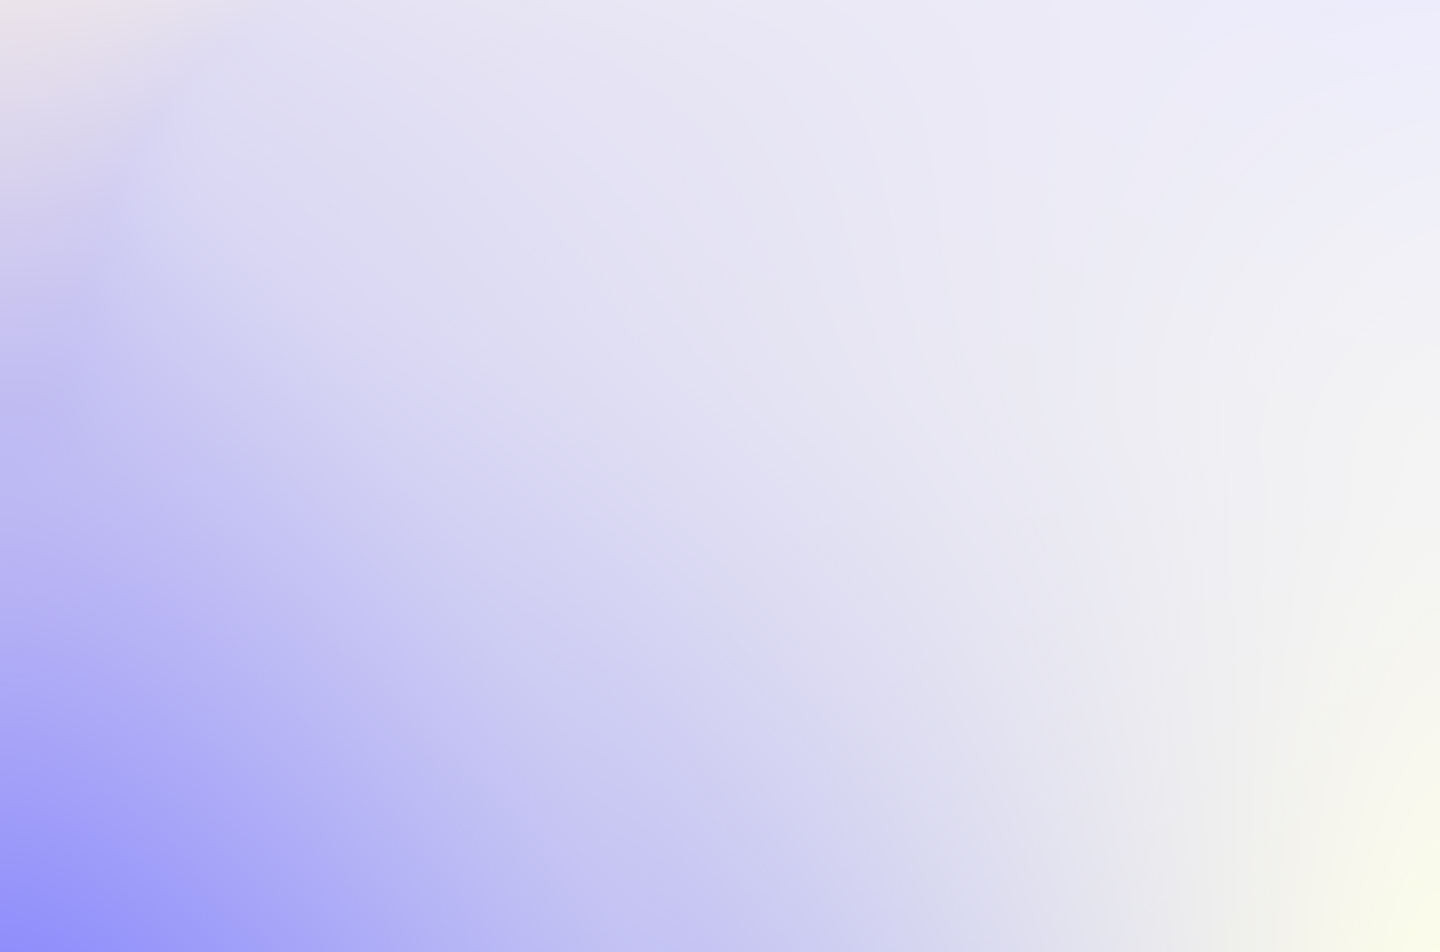
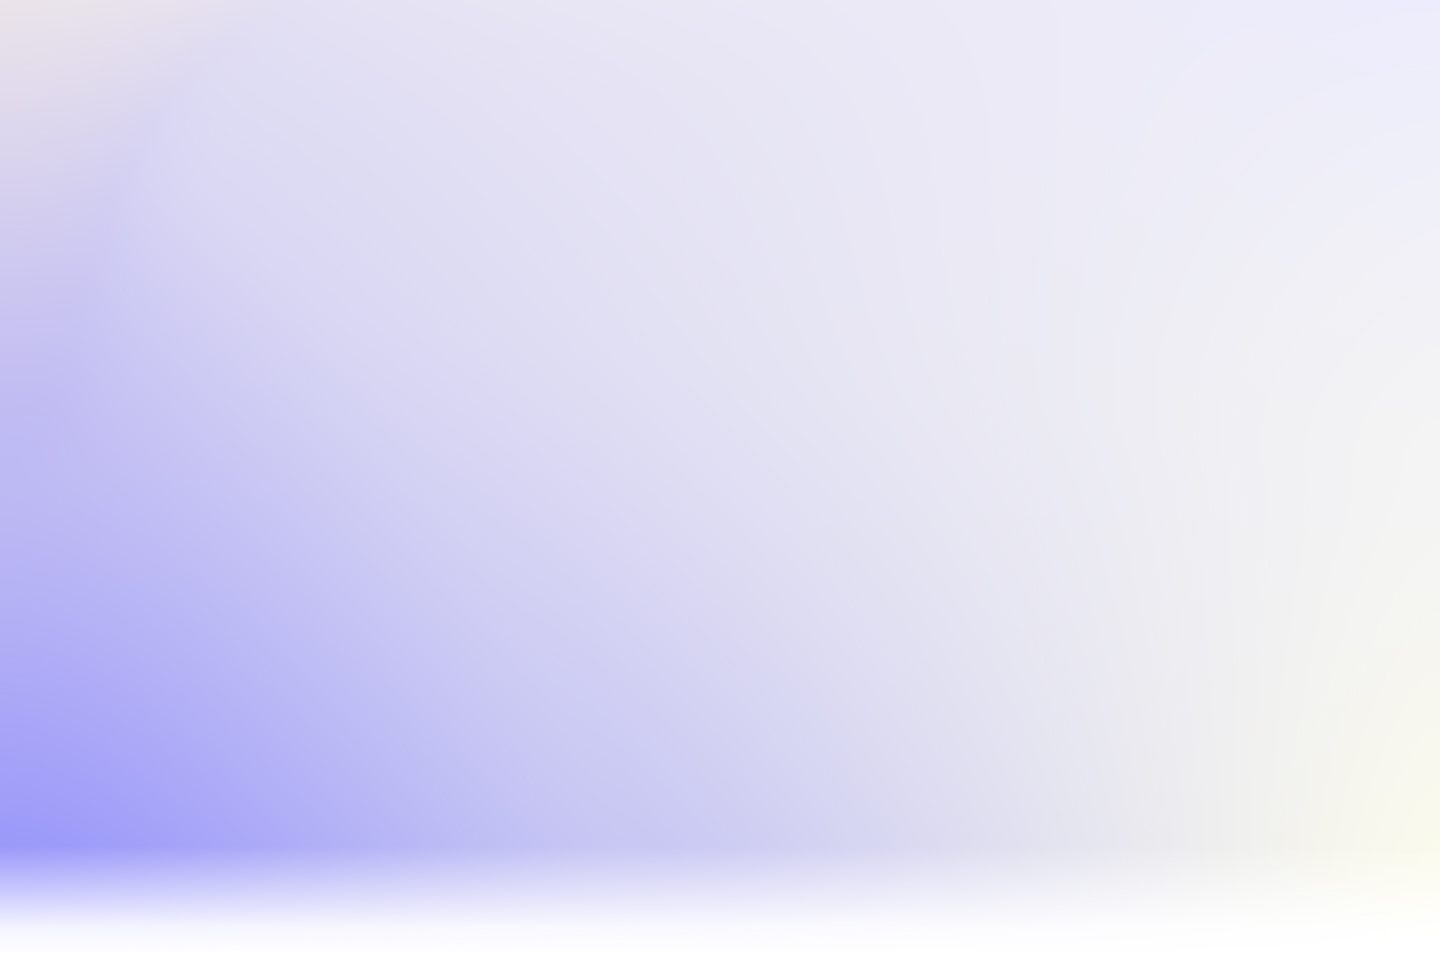
addind hero seciton to main page

Changed region(s): [[0.0, 0.8834, 0.7812, 1.0]]

diff --git a/src/components/Navbar.js b/src/components/Navbar.js
@@ -29,10 +29,10 @@ setIsSearchBarVisible(false);
 };
 
 return (
-    <nav className="w-[100%] mx-auto px-6 xl:container max-xl:px-1 flex items-center justify-between py-2 max-lg:py-4 relative select-none">
+    <nav className="w-[100%] mx-auto px-6 xl:container max-xl:px-1 flex items-center justify-between py-2 relative select-none">
         <Link href='/' className="w-max nav-logo flex items-center mr-4 gap-2">
             {/* <Image width={1} height={1} className="w-[48px] h-[48px] max-xl:w-[42px] max-xl:h-[42px]" src='/images/stockverse_logo.svg' alt='Stockverse_logo'/> */}
-            <svg width="170" height="38.53" viewBox="0 0 180 41" fill="none" xmlns="http://www.w3.org/2000/svg">
+            <svg className="max-sm:w-[45vw]" width="170" height="38.53" viewBox="0 0 180 41" fill="none" xmlns="http://www.w3.org/2000/svg">
             <path d="M56.4 29.7053C55.0546 29.7053 53.7703 29.4994 52.5436 29.0876C51.3168 28.6758 50.3501 28.1418 49.6451 27.4874L50.5787 25.5208C51.2505 26.1089 52.1073 26.5957 53.1508 26.9831C54.1926 27.3705 55.2763 27.5625 56.4035 27.5625C57.4278 27.5625 58.2602 27.4456 58.8989 27.21C59.5375 26.9744 60.0087 26.6516 60.3106 26.2398C60.6125 25.8279 60.7643 25.362 60.7643 24.8403C60.7643 24.2348 60.5671 23.7479 60.1727 23.378C59.7783 23.008 59.2653 22.7096 58.6354 22.4828C58.0054 22.2559 57.3127 22.0588 56.5553 21.8912C55.7997 21.7237 55.0389 21.5265 54.2746 21.2997C53.5103 21.0728 52.8123 20.7832 52.1824 20.4307C51.5524 20.0782 51.0429 19.6035 50.6572 19.0068C50.2698 18.41 50.0779 17.6422 50.0779 16.6999C50.0779 15.7576 50.317 14.9566 50.7968 14.1923C51.275 13.428 52.0148 12.8138 53.0147 12.3513C54.0146 11.8889 55.2867 11.6586 56.8345 11.6586C57.8588 11.6586 58.8762 11.7929 59.8848 12.0617C60.8934 12.3304 61.7676 12.7178 62.5058 13.2221L61.6734 15.2393C60.9178 14.735 60.1186 14.3703 59.2793 14.1434C58.4382 13.9166 57.6233 13.8032 56.8345 13.8032C55.8434 13.8032 55.0285 13.9288 54.3898 14.1818C53.7511 14.4331 53.2852 14.7699 52.9903 15.1904C52.6954 15.611 52.5488 16.0821 52.5488 16.6021C52.5488 17.2234 52.746 17.7207 53.1404 18.0889C53.5347 18.4588 54.0478 18.7537 54.6777 18.9719C55.3077 19.19 56.0004 19.3872 56.7578 19.5634C57.5133 19.7397 58.2742 19.9368 59.0385 20.155C59.8028 20.3731 60.5008 20.6593 61.1307 21.0118C61.7607 21.3642 62.2685 21.8354 62.6558 22.4235C63.0415 23.0115 63.2352 23.7689 63.2352 24.692C63.2352 25.6151 62.9909 26.4108 62.504 27.1751C62.0172 27.9394 61.2651 28.5536 60.2477 29.0161C59.2304 29.4785 57.9496 29.7088 56.4035 29.7088L56.4 29.7053Z" fill="var(--svg-color)"/>
             <path d="M72.3075 26.9846C71.8032 27.4034 71.1733 27.6146 70.4159 27.6146C69.7441 27.6146 69.2276 27.4209 68.8664 27.0352C68.5052 26.6479 68.3237 26.0929 68.3237 25.3705V13.2201H65.9034V25.4717C65.9034 26.8154 66.2733 27.8502 67.0132 28.5726C67.7531 29.295 68.7948 29.6562 70.1385 29.6562C70.6934 29.6562 71.2274 29.5812 71.7404 29.4294C72.2534 29.2776 72.6932 29.0437 73.0631 28.7227L72.3075 26.9846ZM69.7581 16.1447L68.3237 18.1358H72.1557V16.1447H69.7581ZM63.6349 16.1447V18.1358H68.3237V16.1447H63.6349Z" fill="var(--svg-color)"/>
             <path d="M80.2489 29.6564C78.9035 29.6564 77.7117 29.3632 76.6699 28.7734C75.6282 28.1853 74.8045 27.3739 74.199 26.3409C73.5935 25.3078 73.2916 24.1352 73.2916 22.8247C73.2916 21.5142 73.5935 20.3206 74.199 19.2946C74.8045 18.2702 75.6282 17.4675 76.6699 16.8865C77.7117 16.3071 78.9053 16.0175 80.2489 16.0175C81.5926 16.0175 82.7652 16.3071 83.8157 16.8865C84.8662 17.4658 85.6898 18.265 86.2866 19.2806C86.8834 20.2979 87.1818 21.4776 87.1818 22.8229C87.1818 24.1683 86.8834 25.327 86.2866 26.3531C85.6898 27.3791 84.8662 28.1853 83.8157 28.7734C82.7652 29.3615 81.5769 29.6564 80.2489 29.6564ZM80.2489 27.5379C81.1057 27.5379 81.8753 27.3442 82.5558 26.9586C83.2364 26.5729 83.7703 26.0215 84.156 25.3078C84.5416 24.5941 84.7353 23.7652 84.7353 22.8247C84.7353 21.8841 84.5416 21.0396 84.156 20.3416C83.7686 19.6436 83.2364 19.1026 82.5558 18.7152C81.8753 18.3296 81.1057 18.1359 80.2489 18.1359C79.3921 18.1359 78.6261 18.3296 77.9543 18.7152C77.2824 19.1026 76.745 19.6436 76.3401 20.3416C75.937 21.0396 75.7346 21.8667 75.7346 22.8247C75.7346 23.7827 75.937 24.5941 76.3401 25.3078C76.7432 26.0215 77.2807 26.5729 77.9543 26.9586C78.6261 27.346 79.3904 27.5379 80.2489 27.5379Z" fill="var(--svg-color)"/>
@@ -52,13 +52,13 @@ return (
         </Link>
         <SearchBar isVisible={isSearchBarVisible} onClose={closeSearchBar}/>
         <div className="lg:ml-4 z-20 w-[60%] max-lg:w-[100%] max-lg:items-end max-lg:shadow-xl max-lg:px-2 max-lg:py-2 max-lg:bg-mobNavBg max-lg:justify-between flex items-center gap-1.5 max-xl:gap-0.5 max-lg:fixed max-lg:bottom-0 max-lg:left-0 max-lg:right-0">
-            <Link href='/' className="z-50 flex flex-col max-lg:gap-1.5 items-center max-lg:p-0 lg:hidden px-4 py-2 text-base max-xl:text-sm text-primaryText rounded-full">
+            <Link href='/' className="z-50 max-sm:text-[3.6vw] flex flex-col font-medium max-lg:gap-1.5 items-center max-lg:p-0 lg:hidden px-4 py-2 text-base max-xl:text-sm text-primaryText rounded-full">
                 <svg width="24" height="24" viewBox="0 0 24 24" fill="none" xmlns="http://www.w3.org/2000/svg">
                 <path d="M9.15722 20.7714V17.7047C9.1572 16.9246 9.79312 16.2908 10.581 16.2856H13.4671C14.2587 16.2856 14.9005 16.9209 14.9005 17.7047V17.7047V20.7809C14.9003 21.4432 15.4343 21.9845 16.103 22H18.0271C19.9451 22 21.5 20.4607 21.5 18.5618V18.5618V9.83784C21.4898 9.09083 21.1355 8.38935 20.538 7.93303L13.9577 2.6853C12.8049 1.77157 11.1662 1.77157 10.0134 2.6853L3.46203 7.94256C2.86226 8.39702 2.50739 9.09967 2.5 9.84736V18.5618C2.5 20.4607 4.05488 22 5.97291 22H7.89696C8.58235 22 9.13797 21.4499 9.13797 20.7714V20.7714" stroke="rgba(var(--mob-nav-link))" strokeWidth="2" strokeLinecap="round" strokeLinejoin="round"/>
                 </svg>
                 <span className={`rounded-full max-lg:text-mobNavLink max-lg:py-.2 max-lg:px-2 ${isActive('/') ? 'max-lg:bg-mobNavLink max-lg:!text-mobNavBg' : ''}`}>Home</span>
             </Link>
-            <Link href=''  onClick={toggleSearchBar} className="z-50 hidden max-lg:flex flex-col max-lg:gap-1.5 items-center max-lg:px-0 text-base max-xl:text-sm text-primaryText rounded-full group">
+            <Link href=''  onClick={toggleSearchBar} className="z-50 max-sm:text-[3.6vw] font-medium hidden max-lg:flex flex-col max-lg:gap-1.5 items-center max-lg:px-0 text-base max-xl:text-sm text-primaryText rounded-full group">
                 <svg
                     width="24"
                     height="24"
@@ -85,7 +85,7 @@ return (
                     Search
                 </span>
             </Link>
-            <Link href='/stockverse-gpt' className="z-50 flex flex-col items-center max-lg:gap-1.5 max-lg:p-0 px-4 py-2 text-base max-xl:text-sm text-primaryText lg:hover:bg-primaryText/10 rounded-full">
+            <Link href='/stockverse-gpt' className="z-50 flex flex-col max-sm:text-[3.6vw] font-medium items-center max-lg:gap-1.5 max-lg:p-0 px-4 py-2 text-base max-xl:text-sm text-primaryText lg:hover:bg-primaryText/10 rounded-full">
                 <svg className="absolute -top-7 hidden max-lg:flex" width="64" height="64" viewBox="0 0 48 48" fill="none" xmlns="http://www.w3.org/2000/svg">
                 <g clipPath="url(#clip0_374_40)">
                 <path d="M48 24C48 10.7452 37.2548 0 24 0C10.7452 0 0 10.7452 0 24C0 37.2548 10.7452 48 24 48C37.2548 48 48 37.2548 48 24Z" fill="rgba(var(--mob-nav-bg))" fillOpacity="1"/>
@@ -122,7 +122,7 @@ return (
                 </svg>
                 <span className={`rounded-full max-lg:text-mobNavLink max-lg:py-.2 max-lg:px-2 ${isActive('/stockverse-gpt') ? 'max-lg:bg-mobNavLink max-lg:!text-mobNavBg' : ''}`}>Stocks GPT</span>
             </Link>
-            <Link href='/ai-news' className="z-50 flex flex-col max-lg:gap-1.5 items-center max-lg:p-0 px-4 py-2 text-base max-xl:text-sm text-primaryText lg:hover:bg-primaryText/10 rounded-full">
+            <Link href='/ai-news' className="z-50 flex flex-col max-sm:text-[3.6vw] font-medium max-lg:gap-1.5 items-center max-lg:p-0 px-4 py-2 text-base max-xl:text-sm text-primaryText lg:hover:bg-primaryText/10 rounded-full">
                 <svg className="hidden max-lg:flex" width="24" height="24" viewBox="0 0 24 24" fill="none" xmlns="http://www.w3.org/2000/svg">
                 <path fillRule="evenodd" clipRule="evenodd" d="M7 9C7 8.44772 7.44772 8 8 8H16C16.5523 8 17 8.44772 17 9C17 9.55228 16.5523 10 16 10H8C7.44772 10 7 9.55228 7 9Z" fill="rgba(var(--mob-nav-link))"/>
                 <path fillRule="evenodd" clipRule="evenodd" d="M7 13C7 12.4477 7.44772 12 8 12H12C12.5523 12 13 12.4477 13 13C13 13.5523 12.5523 14 12 14H8C7.44772 14 7 13.5523 7 13Z" fill="rgba(var(--mob-nav-link))"/>
@@ -130,7 +130,7 @@ return (
                 </svg>
                 <span className={`rounded-full max-lg:text-mobNavLink max-lg:py-.2 max-lg:px-2 ${isActive('/ai-news') ? 'max-lg:bg-mobNavLink max-lg:!text-mobNavBg' : ''}`}>News</span>
             </Link>
-            <div className="cursor-pointer lg:relative group max-lg:gap-1.5 flex max-lg:p-0 max-lg:flex-col max-lg:items-center items-end px-4 py-2 text-base max-xl:text-sm text-primaryText lg:hover:bg-primaryText/10 rounded-full group" onClick={toggleDropdown} id="menu-button" aria-expanded="true" aria-haspopup="true">
+            <div className="cursor-pointer lg:relative group max-sm:text-[3.6vw] font-medium max-lg:gap-1.5 flex max-lg:p-0 max-lg:flex-col max-lg:items-center items-end px-4 py-2 text-base max-xl:text-sm text-primaryText lg:hover:bg-primaryText/10 rounded-full group" onClick={toggleDropdown} id="menu-button" aria-expanded="true" aria-haspopup="true">
                 <svg className="z-50 hidden max-lg:flex" width="24" height="24" viewBox="0 0 24 24" fill="none" xmlns="http://www.w3.org/2000/svg">
                 <path d="M12 22C17.5228 22 22 17.5228 22 12C22 6.47715 17.5228 2 12 2C6.47715 2 2 6.47715 2 12C2 17.5228 6.47715 22 12 22Z" stroke="rgba(var(--mob-nav-link))" strokeWidth="1.5" strokeLinecap="round" strokeLinejoin="round"/>
                 <path d="M2 12H22" stroke="rgba(var(--mob-nav-link))" strokeWidth="1.5" strokeLinecap="round" strokeLinejoin="round"/>
@@ -142,20 +142,20 @@ return (
                 </svg>
                 <div className={`absolute p-2 max-lg:shadow-none max-lg:w-full max-lg:pb-8 max-lg:left-[0%] max-lg:bg-mobNavBg max-lg:rounded-2xl max-lg:z-10 max-lg:-top-[280%] overflow-hidden top-[80%] left-0 mt-2 w-48 bg-background rounded-md shadow-xl transition-opacity duration-0 ${isDropdownVisible ? 'opacity-100 visible' : 'opacity-0 invisible'}`}>
                     <Link href="/gainers&losers">
-                        <span className="w-full h-full max-lg:text-mobNavLink rounded text-base block px-4 py-2 text-primaryText hover:bg-primaryText/10">Gainers / Losers</span>
+                        <span className="w-full h-full font-medium max-lg:text-mobNavLink rounded text-base block px-4 py-2 text-primaryText hover:bg-primaryText/10">Gainers / Losers</span>
                     </Link>
                     <Link href="/level2">
-                        <span className="block px-4 py-2 max-lg:text-mobNavLink rounded text-base text-primaryText hover:bg-primaryText/10">Level 2</span>
+                        <span className="block px-4 py-2 font-medium max-lg:text-mobNavLink rounded text-base text-primaryText hover:bg-primaryText/10">Level 2</span>
                     </Link>
                     <Link href="/ipo">
-                        <span className="block px-4 py-2 max-lg:text-mobNavLink rounded text-base text-primaryText hover:bg-primaryText/10">IPO Calender</span>
+                        <span className="block px-4 py-2 font-medium max-lg:text-mobNavLink rounded text-base text-primaryText hover:bg-primaryText/10">IPO Calender</span>
                     </Link>
                     <Link href="/stockpicks" className="hidden max-lg:flex">
-                        <span className="block w-full px-4 py-2 max-lg:text-mobNavLink rounded text-base text-primaryText hover:bg-primaryText/10">Stock Picks</span>
+                        <span className="block w-full font-medium px-4 py-2 max-lg:text-mobNavLink rounded text-base text-primaryText hover:bg-primaryText/10">Stock Picks</span>
                     </Link>
                 </div>
             </div>
-            <Link href='/stockpicks' className="max-lg:hidden flex flex-col items-center max-lg:p-0 px-4 py-2 text-base max-xl:text-sm text-primaryText hover:bg-primaryText/10 rounded-full">
+            <Link href='/stockpicks' className="max-lg:hidden flex flex-col items-center max-lg:p-0 px-4 py-2 text-base font-medium max-xl:text-sm text-primaryText hover:bg-primaryText/10 rounded-full">
                 <svg className="hidden max-lg:flex" width="24" height="24" viewBox="0 0 24 24" fill="none" xmlns="http://www.w3.org/2000/svg">
                 <path d="M19.97 10H3.97V18C3.97 21 4.97 22 7.97 22H15.97C18.97 22 19.97 21 19.97 18V10Z" stroke="var(--svg-color)" strokeWidth="1.5" strokeMiterlimit="10" strokeLinecap="round" strokeLinejoin="round"/>
                 <path d="M21.5 7V8C21.5 9.1 20.97 10 19.5 10H4.5C2.97 10 2.5 9.1 2.5 8V7C2.5 5.9 2.97 5 4.5 5H19.5C20.97 5 21.5 5.9 21.5 7Z" stroke="white" strokeWidth="1.5" strokeMiterlimit="10" strokeLinecap="round" strokeLinejoin="round"/>
@@ -167,10 +167,10 @@ return (
             </Link>
         </div>
         <div className="w-max flex items-center gap-2 max-lg:gap-1">
-            <Link href="/login" className="px-4 py-2 text-base max-xl:text-sm text-primaryButton hover:bg-primaryText/10 rounded-full">
+            <Link href="/login" className="px-4 py-2 max-sm:px-[4vw] max-sm:text-[3.5vw] text-base max-xl:text-sm text-primaryButton hover:bg-primaryText/10 rounded-full">
                 <span>Login</span>
             </Link> 
-            <Link href="/register" className="px-6 py-2 text-base max-xl:text-sm text-primaryButtonText bg-primaryButtonBg hover:bg-primaryButtonBg/90 rounded-full">
+            <Link href="/register" className="px-6 py-2 max-sm:px-[6vw] max-sm:text-[3.5vw] text-base max-xl:text-sm text-primaryButtonText bg-primaryButtonBg hover:bg-primaryButtonBg/90 rounded-full">
                 <span>Register</span>
             </Link>
             <ThemeSwitch/>

diff --git a/src/components/SearchBar.js b/src/components/SearchBar.js
@@ -102,7 +102,7 @@ router.push(`/stocks/${symbol}`);
 };
 
 return (
-<div className={`relative w-[25%] transform z-10 max-lg:h-[100%] max-lg:w-full max-lg:bg-mobNavBg max-lg:pt-4 max-lg:fixed max-lg:top-0 max-lg:left-0 transition duration-300 ease-in-out ${
+<div className={`relative w-[30%] transform z-10 max-lg:h-[100%] max-lg:w-full max-lg:bg-mobNavBg max-lg:pt-4 max-lg:fixed max-lg:top-0 max-lg:left-0 transition duration-300 ease-in-out ${
     isVisible ? 'max-lg:translate-y-0' : 'max-lg:translate-y-full'
 }`}>
     <div ref={searchBarRef} className="relative w-[100%] max-lg:flex max-lg:flex-col max-lg:items-center">
@@ -142,14 +142,14 @@ return (
                 <path
                     d="M11 19C15.4183 19 19 15.4183 19 11C19 6.58172 15.4183 3 11 3C6.58172 3 3 6.58172 3 11C3 15.4183 6.58172 19 11 19Z"
                     stroke="var(--svg-color)" // Use strokeColor state here
-                    strokeWidth="2"
+                    strokeWidth="2.3"
                     strokeLinecap="round"
                     strokeLinejoin="round"
                 />
                 <path
                     d="M20.9999 20.9999L16.6499 16.6499"
                     stroke="var(--svg-color)" // Use strokeColor state here
-                    strokeWidth="2"
+                    strokeWidth="2.3"
                     strokeLinecap="round"
                     strokeLinejoin="round"
                 />

diff --git a/src/app/page.js b/src/app/page.js
@@ -1,10 +1,10 @@
 
-
 export default function Home() {
   return (
-    <div className="py-8 w-full bg-heroBg bg-no-repeat bg-cover bg-left-bottom">
-      <div className="px-6 mx-auto xl:container flex flex-col items-center">
-        <h1 className="text-xl">Invest The Smart Way - Caiman Invest</h1>
+    <div className="hero pt-16 w-full bg-heroBg bg-no-repeat bg-cover bg-left-bottom">
+      <div className="content px-6 max-sm:px-3 mx-auto xl:container gap-y-4 max-sm:gap-y-3 flex flex-col items-center">
+        <h1 className="w-[70%] max-sm:w-[100%] text-[75px] max-xl:text-[5.5vw] max-sm:text-[7.5vw] leading-[120%] font-bold text-primaryHeading text-center">Your Gateway to Smarter Decision<span className="text-secondaryHeading">  - Stockverse</span></h1>
+        <p className="text-2xl w-[50%] max-xl:w-[70%] max-sm:w-[90%] leading-[120%] max-xl:text-[2vw] max-sm:text-[4vw] text-center">Discover real-time stock data, personalized insights, and AI-driven recommendations tailored to your trading style.</p>
       </div>
     </div>
   );

diff --git a/src/app/globals.css b/src/app/globals.css
@@ -16,12 +16,14 @@
   --mob-nav-bg: 29, 41, 57;
   --mob-nav-link: 255, 255, 255;
   --primary-color: 255, 255, 255;
-  --secondary-color: 1, 30, 247, 1;
+  --secondary-color: 29, 41, 57;
   --background: 255, 255, 255;
   --primary-text: 0, 0, 0;
   --primary-text-hover: 255, 255, 255;
   --primary-button-text: 255, 255, 255;
   --primary-button-bg: 29, 41, 57;
+  --primary-heading-color: 1, 30, 247;
+  --secondary-heading-color: 0, 0, 0;
   --theme-color: light;
 }
 
@@ -49,6 +51,7 @@
     fill: white;
   }
 }
+
 
 /**
 * @license

diff --git a/tailwind.config.js b/tailwind.config.js
@@ -19,6 +19,8 @@ module.exports = {
       primaryTextHover: "rgba(var(--primary-text-hover))",
       primaryButtonText: "rgba(var(--primary-button-text))",
       primaryButtonBg: "rgba(var(--primary-button-bg))",
+      primaryHeading: "rgba(var(--primary-heading-color))",
+      secondaryHeading: "rgba(var(--secondary-heading-color))",
       background: "rgba(var(--background))",
     },
     extend: {
